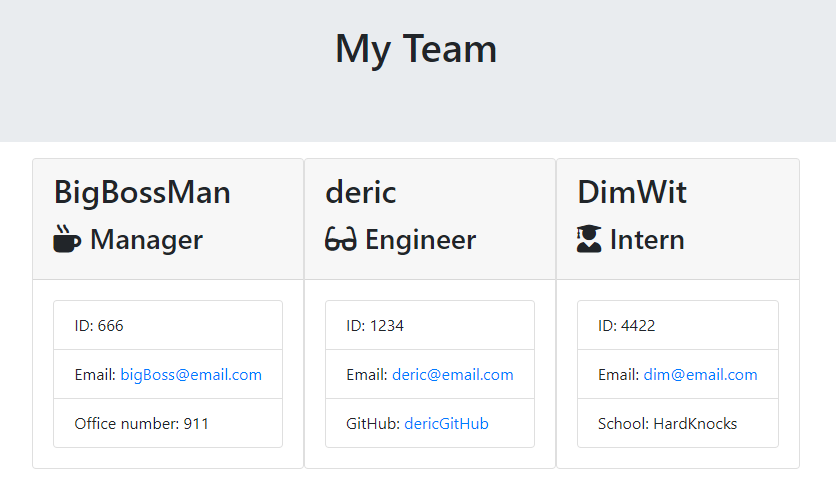
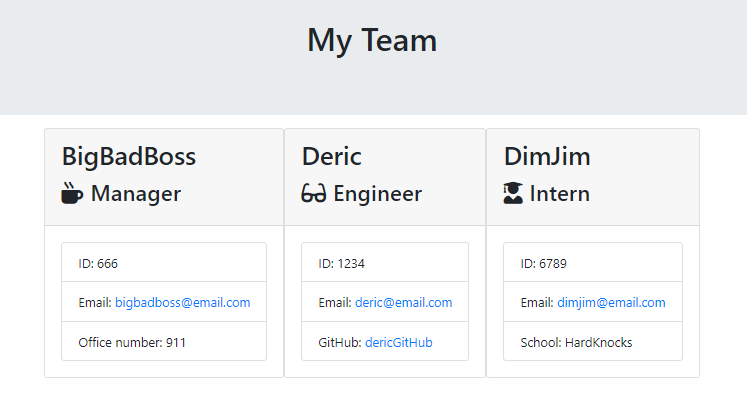
added comments to code, tidied code layout, removed junk

diff --git a/output/team.html b/output/team.html
@@ -27,13 +27,13 @@
                 
         <div class="card employee-card">
         <div class="card-header">
-            <h2 class="card-title">BigBossMan</h2>
+            <h2 class="card-title">BigBadBoss</h2>
             <h3 class="card-title"><i class="fas fa-mug-hot mr-2"></i>Manager</h3>
         </div>
         <div class="card-body">
             <ul class="list-group">
                 <li class="list-group-item">ID: 666</li>
-                <li class="list-group-item">Email: <a href="mailto:bigBoss@email.com">bigBoss@email.com</a></li>
+                <li class="list-group-item">Email: <a href="mailto:bigbadboss@email.com">bigbadboss@email.com</a></li>
                 <li class="list-group-item">Office number: 911</li>
             </ul>
         </div>
@@ -41,7 +41,7 @@
         
         <div class="card employee-card">
     <div class="card-header">
-        <h2 class="card-title">deric</h2>
+        <h2 class="card-title">Deric</h2>
         <h3 class="card-title"><i class="fas fa-glasses mr-2"></i>Engineer</h3>
     </div>
     <div class="card-body">
@@ -55,13 +55,13 @@
         
         <div class="card employee-card">
     <div class="card-header">
-        <h2 class="card-title">DimWit</h2>
+        <h2 class="card-title">DimJim</h2>
         <h3 class="card-title"><i class="fas fa-user-graduate mr-2"></i>Intern</h3>
     </div>
     <div class="card-body">
         <ul class="list-group">
-            <li class="list-group-item">ID: 4422</li>
-            <li class="list-group-item">Email: <a href="mailto:dim@email.com">dim@email.com</a></li>
+            <li class="list-group-item">ID: 6789</li>
+            <li class="list-group-item">Email: <a href="mailto:dimjim@email.com">dimjim@email.com</a></li>
             <li class="list-group-item">School: HardKnocks</li>
         </ul>
     </div>

diff --git a/lib/Engineer.js b/lib/Engineer.js
@@ -1,21 +1,18 @@
-// TODO: Write code to define and export the Engineer class.  HINT: This class should inherit from Employee.
-// require the Employee class
-const Employee = require("./Employee");
-class Engineer extends Employee {  // extend the Employee class with this Engineer class
-    constructor(name, email, id, github) {
+const Employee = require("./Employee");  // import the generic employee class
+class Engineer extends Employee {  // create Engineer class, this class is an extension of Employee class
+    constructor(name, email, id, github) {  // keys associated with this class
         
-        super(name, email, id); // get name, email, id from Employee
+        super(name, email, id); // name, email, id inherited from the Employee class
 
-        this.github = github;
-        this.role = "Engineer";
+        this.github = github; // unique variable for the Engineer class only
     };
-    
+
     getGithub() {
-        return this.github;
+        return this.github; // return unique value user-input GitHub ID
     };
     getRole() {
-        return 'Engineer';
+        return "Engineer";  // return string value "Manager"
     };
 };
 
-module.exports = Engineer;
+module.exports = Engineer;  // allow this Engineer class to be inmported by other files

diff --git a/lib/Manager.js b/lib/Manager.js
@@ -1,19 +1,18 @@
-// TODO: Write code to define and export the Manager class. HINT: This class should inherit from Employee.
-const Employee = require("./Employee");
-class Manager extends Employee {
-    constructor(name, email, id, officeNumber) {
+const Employee = require("./Employee"); // import the generic employee class
+class Manager extends Employee { // create Manager class, this class is an extension of Employee class
+    constructor(name, email, id, officeNumber) { // keys associated with this class
     
-        super(name, email, id);
+        super(name, email, id); // name, email, id inherited from the Employee class
 
-        this.officeNumber = officeNumber;
+        this.officeNumber = officeNumber; // unique variable for the Manager class only
     };
 
     getOfficeNumber() {
-        return this.officeNumber;
+        return this.officeNumber;   // return user-input office number 
     };
     getRole() {
-        return "Manager";
+        return "Manager"; // return string value "Manager" 
     };
 };
 
-module.exports = Manager;
+module.exports = Manager; // allow this Manager class to be inmported by other files

diff --git a/lib/Intern.js b/lib/Intern.js
@@ -1,18 +1,18 @@
-// TODO: Write code to define and export the Intern class.  HINT: This class should inherit from Employee.
-const Employee = require("./Employee");
-class Intern extends Employee { //
-    constructor(name, email, id, school) {
-    super(name, email, id);
+const Employee = require("./Employee"); // import the generic employee class
+class Intern extends Employee { // create Intern class, this class is an extension of Employee class
+    constructor(name, email, id, school) {  // keys associated with this class
+    
+        super(name, email, id); // name, email, id inherited from the Employee class
 
-    this.school = school;
+        this.school = school;   // unique variable for the Intern class only
     };
 
     getSchool() {
-        return this.school;
+        return this.school; // return unique value user-input school
     };
     getRole() {
-        return "Intern";
+        return "Intern";    // return string value "Intern"
     };
 };
 
-module.exports = Intern;
+module.exports = Intern;    // allow this Intern class to be inmported by other files

diff --git a/lib/Employee.js b/lib/Employee.js
@@ -1,8 +1,5 @@
-// TODO: Write code to define and export the Employee class
-// create Employee class
 class Employee {
-    // create constructor blueprint for this class including 'name' 'id' and 'email:
-    constructor(name, email, id) {
+    constructor(name, email, id) { // Create constructor blueprint for this class including 'name' 'id' and 'email
         this.name = name;
         this.email = email;
         this.id = id;   
